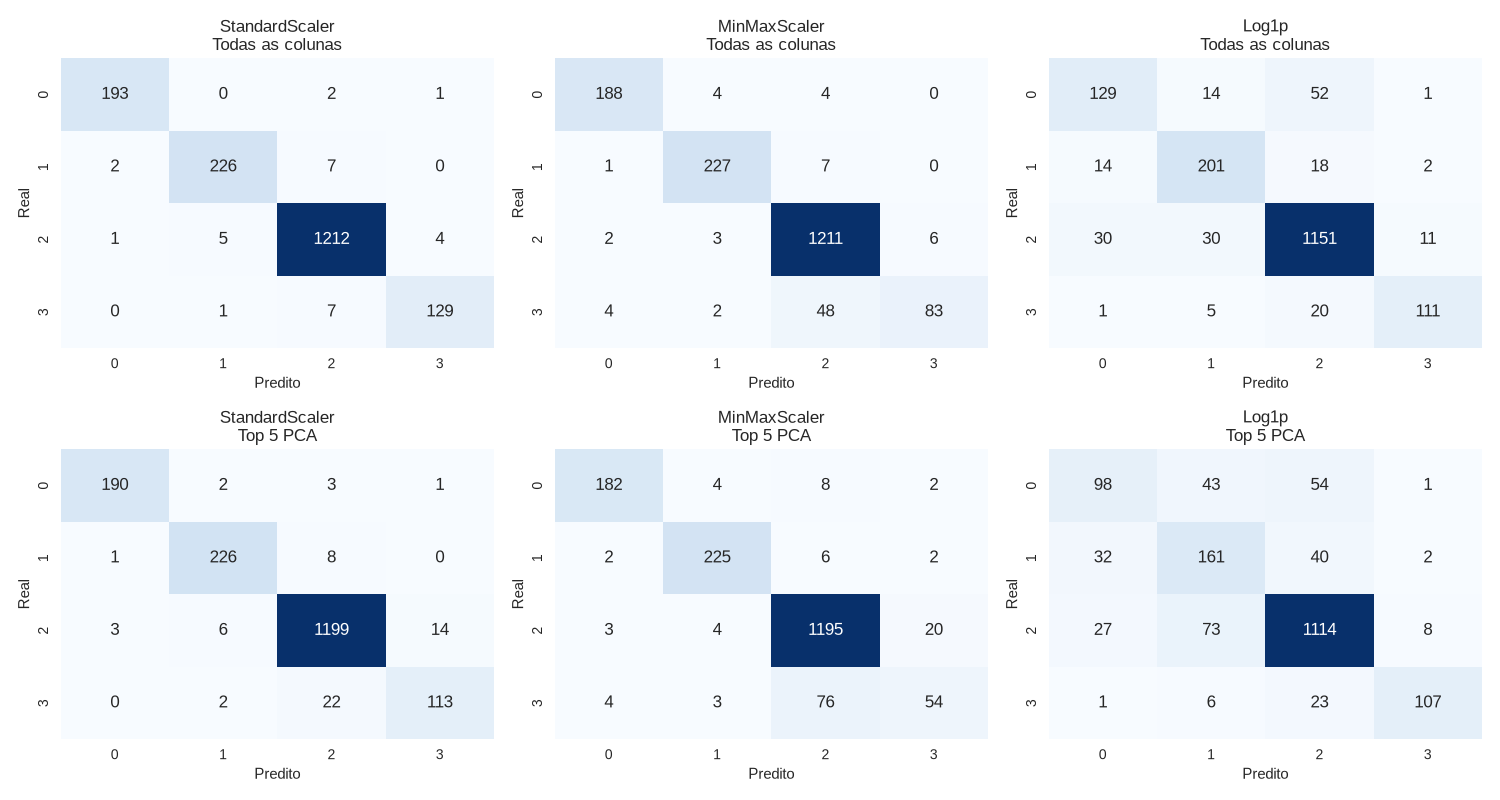
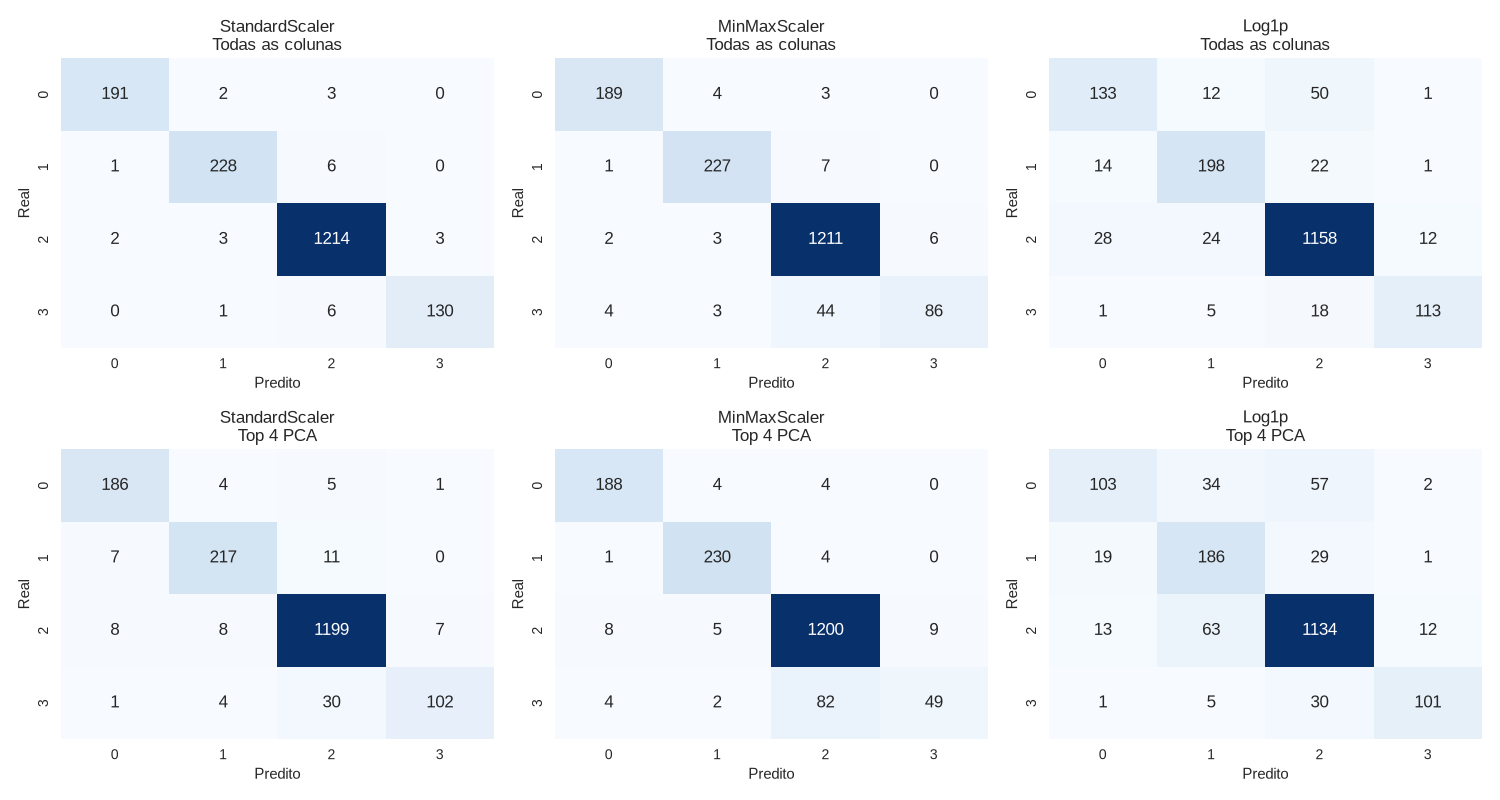
q7 atualizetion

diff --git a/q7.py b/q7.py
@@ -12,7 +12,7 @@ from sklearn.model_selection import train_test_split
 from sklearn.neighbors import KNeighborsClassifier
 from sklearn.pipeline import Pipeline
 from sklearn.preprocessing import MinMaxScaler, RobustScaler, StandardScaler
-from sklearn.tree import DecisionTreeClassifier, plot_tree
+from sklearn.tree import DecisionTreeClassifier
 
 from q1 import load_data, preprocess_data
 from q6 import get_target_labels
@@ -111,7 +111,7 @@ def plot_pca_2d(X, pca, save_path, y=None, scaler=None):
     return X_pca
 
 
-def run_knn_classification(X_train, X_test, y_train, y_test):
+def run_knn_classification(X_train_clf, X_test_clf, y_train_clf, y_test_clf):
     knn_normalizers = {
         "StandardScaler": StandardScaler(),
         "MinMaxScaler": MinMaxScaler(),
@@ -120,50 +120,85 @@ def run_knn_classification(X_train, X_test, y_train, y_test):
 
     knn_results = []
     knn_confusion = {}
+    knn_best_results = []
 
     for norm_name, normalizer in knn_normalizers.items():
         if normalizer is None:
-            X_train_proc = np.log1p(X_train)
-            X_test_proc = np.log1p(X_test)
+            X_train_proc = np.log1p(X_train_clf)
+            X_test_proc = np.log1p(X_test_clf)
         else:
-            X_train_proc = normalizer.fit_transform(X_train)
-            X_test_proc = normalizer.transform(X_test)
+            X_train_proc = normalizer.fit_transform(X_train_clf)
+            X_test_proc = normalizer.transform(X_test_clf)
 
-        pca5 = PCA(n_components=5, random_state=77)
-        X_train_pca = pca5.fit_transform(X_train_proc)
-        X_test_pca = pca5.transform(X_test_proc)
+        pca4 = PCA(n_components=4, random_state=77)
+        X_train_pca = pca4.fit_transform(X_train_proc)
+        X_test_pca = pca4.transform(X_test_proc)
 
         feature_sets = {
             "Todas as colunas": (X_train_proc, X_test_proc),
-            "Top 5 PCA": (X_train_pca, X_test_pca),
+            "Top 4 PCA": (X_train_pca, X_test_pca),
         }
 
         for feature_set_name, (X_tr, X_te) in feature_sets.items():
-            knn = KNeighborsClassifier()
-            knn.fit(X_tr, y_train)
-            y_pred = knn.predict(X_te)
+            best_for_combo = None
 
-            print(f"=== KNN | {norm_name} | {feature_set_name} ===")
-            print(classification_report(y_test, y_pred))
+            for n_neighbors in range(2, 21):
+                knn = KNeighborsClassifier(n_neighbors=n_neighbors)
+                knn.fit(X_tr, y_train_clf)
+                y_pred = knn.predict(X_te)
 
-            report = classification_report(y_test, y_pred, output_dict=True)
-            knn_confusion[(norm_name, feature_set_name)] = confusion_matrix(y_test, y_pred)
+                report = classification_report(y_test_clf, y_pred, output_dict=True)
+                acc = report["accuracy"]
 
-            knn_results.append({
+                knn_results.append({
+                    "normalizacao": norm_name,
+                    "features": feature_set_name,
+                    "n_neighbors": n_neighbors,
+                    "accuracy": acc,
+                    "precision": report["weighted avg"]["precision"],
+                    "recall": report["weighted avg"]["recall"],
+                    "f1": report["weighted avg"]["f1-score"],
+                })
+
+                if best_for_combo is None or acc > best_for_combo["accuracy"]:
+                    best_for_combo = {
+                        "n_neighbors": n_neighbors,
+                        "accuracy": acc,
+                        "y_pred": y_pred,
+                        "report": report,
+                    }
+
+            knn_confusion[(norm_name, feature_set_name)] = confusion_matrix(
+                y_test_clf, best_for_combo["y_pred"]
+            )
+
+            knn_best_results.append({
                 "normalizacao": norm_name,
                 "features": feature_set_name,
-                "accuracy": report["accuracy"],
-                "precision": report["weighted avg"]["precision"],
-                "recall": report["weighted avg"]["recall"],
-                "f1": report["weighted avg"]["f1-score"],
+                "n_neighbors": best_for_combo["n_neighbors"],
+                "accuracy": best_for_combo["accuracy"],
+                "precision": best_for_combo["report"]["weighted avg"]["precision"],
+                "recall": best_for_combo["report"]["weighted avg"]["recall"],
+                "f1": best_for_combo["report"]["weighted avg"]["f1-score"],
             })
 
-    knn_results_df = pd.DataFrame(knn_results).sort_values("f1", ascending=False).reset_index(drop=True)
-    return knn_results_df, knn_confusion
+    norm_order = ["StandardScaler", "MinMaxScaler", "Log1p"]
+    features_order = ["Todas as colunas", "Top 4 PCA"]
+
+    knn_best_results_df = pd.DataFrame(knn_best_results)
+    knn_best_results_df["normalizacao"] = pd.Categorical(
+        knn_best_results_df["normalizacao"], categories=norm_order, ordered=True
+    )
+    knn_best_results_df["features"] = pd.Categorical(
+        knn_best_results_df["features"], categories=features_order, ordered=True
+    )
+    knn_best_results_df = knn_best_results_df.sort_values(["normalizacao", "features"]).reset_index(drop=True)
+
+    return knn_best_results_df, knn_confusion
 
 
 def plot_knn_confusion_matrices(knn_confusion, save_path):
-    feature_set_names = ["Todas as colunas", "Top 5 PCA"]
+    feature_set_names = ["Todas as colunas", "Top 4 PCA"]
     norm_names = ["StandardScaler", "MinMaxScaler", "Log1p"]
 
     fig, axes = plt.subplots(2, 3, figsize=(15, 8))
@@ -187,24 +222,24 @@ def run_tree_classification(X_train_clf, X_test_clf, y_train_clf, y_test_clf, sa
     X_train_tree_scaled = scaler_for_tree_pca.fit_transform(X_train_clf)
     X_test_tree_scaled = scaler_for_tree_pca.transform(X_test_clf)
 
-    pca5_tree = PCA(n_components=5, random_state=77)
-    X_train_tree_pca = pca5_tree.fit_transform(X_train_tree_scaled)
-    X_test_tree_pca = pca5_tree.transform(X_test_tree_scaled)
+    pca4_tree = PCA(n_components=4, random_state=77)
+    X_train_tree_pca = pca4_tree.fit_transform(X_train_tree_scaled)
+    X_test_tree_pca = pca4_tree.transform(X_test_tree_scaled)
 
     tree_feature_sets = {
         "Todas as colunas": (X_train_clf, X_test_clf),
-        "Top 5 PCA": (X_train_tree_pca, X_test_tree_pca),
+        "Top 4 PCA": (X_train_tree_pca, X_test_tree_pca),
     }
 
     tree_results = []
     tree_models = {}
 
-    file_suffix = {"Todas as colunas": "todas_colunas", "Top 5 PCA": "top5_pca"}
+    file_suffix = {"Todas as colunas": "todas_colunas", "Top 4 PCA": "top4_pca"}
 
     for feature_set_name, (X_tr, X_te) in tree_feature_sets.items():
         tree_pipeline = Pipeline([
             ("feature_selection", VarianceThreshold(threshold=0.01)),
-            ("tree", DecisionTreeClassifier(random_state=77)),
+            ("tree", DecisionTreeClassifier(random_state=77)), # Critério padrão é o Gini
         ])
 
         tree_pipeline.fit(X_tr, y_train_clf)
@@ -237,62 +272,6 @@ def run_tree_classification(X_train_clf, X_test_clf, y_train_clf, y_test_clf, sa
     return tree_results_df, tree_models
 
 
-def plot_decision_trees(tree_models, save_path):
-    fig, axes = plt.subplots(1, 2, figsize=(24, 10))
-
-    for ax, feature_set_name in zip(axes, tree_models.keys()):
-        tree_model = tree_models[feature_set_name].named_steps["tree"]
-        plot_tree(tree_model, max_depth=3, filled=True, fontsize=8, ax=ax)
-        ax.set_title(f"Árvore - {feature_set_name} (top 3 níveis)")
-
-    plt.tight_layout()
-    plt.savefig(save_path)
-    plt.close(fig)
-
-
-def print_final_comparison(knn_results_df, tree_results_df):
-    best_knn = knn_results_df.iloc[0]
-    best_tree = tree_results_df.iloc[0]
-
-    final_comparison = pd.DataFrame([
-        {
-            "modelo": f"KNN ({best_knn['normalizacao']}, {best_knn['features']})",
-            "accuracy": best_knn["accuracy"],
-            "precision": best_knn["precision"],
-            "recall": best_knn["recall"],
-            "f1": best_knn["f1"],
-        },
-        {
-            "modelo": f"Árvore de Decisão ({best_tree['features']})",
-            "accuracy": best_tree["accuracy"],
-            "precision": best_tree["precision"],
-            "recall": best_tree["recall"],
-            "f1": best_tree["f1"],
-        },
-    ])
-
-    f1_pca_knn = knn_results_df[knn_results_df["features"] == "Top 5 PCA"]["f1"].mean()
-    f1_full_knn = knn_results_df[knn_results_df["features"] == "Todas as colunas"]["f1"].mean()
-
-    f1_pca_tree = tree_results_df[tree_results_df["features"] == "Top 5 PCA"]["f1"].mean()
-    f1_full_tree = tree_results_df[tree_results_df["features"] == "Todas as colunas"]["f1"].mean()
-
-    print(f"KNN    - F1 médio (todas as colunas): {f1_full_knn:.4f} | F1 médio (top 5 PCA): {f1_pca_knn:.4f}")
-    print(f"Árvore - F1 (todas as colunas): {f1_full_tree:.4f} | F1 (top 5 PCA): {f1_pca_tree:.4f}")
-    print(
-        "PCA manteve/melhorou o desempenho médio do KNN em relação a usar todas as colunas."
-        if f1_pca_knn >= f1_full_knn else
-        "PCA reduziu o desempenho médio do KNN em relação a usar todas as colunas."
-    )
-    print(
-        "PCA manteve/melhorou o desempenho da Árvore em relação a usar todas as colunas."
-        if f1_pca_tree >= f1_full_tree else
-        "PCA reduziu o desempenho da Árvore em relação a usar todas as colunas."
-    )
-
-    print(final_comparison)
-
-
 def pipeline():
     os.makedirs("image/q7", exist_ok=True)
 
@@ -321,8 +300,8 @@ def pipeline():
         test_size=0.2, random_state=77, stratify=target_labels
     )
 
-    knn_results_df, knn_confusion = run_knn_classification(X_train_clf, X_test_clf, y_train_clf, y_test_clf)
-    print(knn_results_df)
+    knn_best_results_df, knn_confusion = run_knn_classification(X_train_clf, X_test_clf, y_train_clf, y_test_clf)
+    print(knn_best_results_df)
 
     plot_knn_confusion_matrices(knn_confusion, save_path="image/q7/matrizes_confusao_knn.png")
 
@@ -330,10 +309,6 @@ def pipeline():
         X_train_clf, X_test_clf, y_train_clf, y_test_clf, save_dir="image/q7"
     )
     print(tree_results_df)
-
-    plot_decision_trees(tree_models, save_path="image/q7/arvores_decisao.png")
-
-    print_final_comparison(knn_results_df, tree_results_df)
 
 
 if __name__ == "__main__":